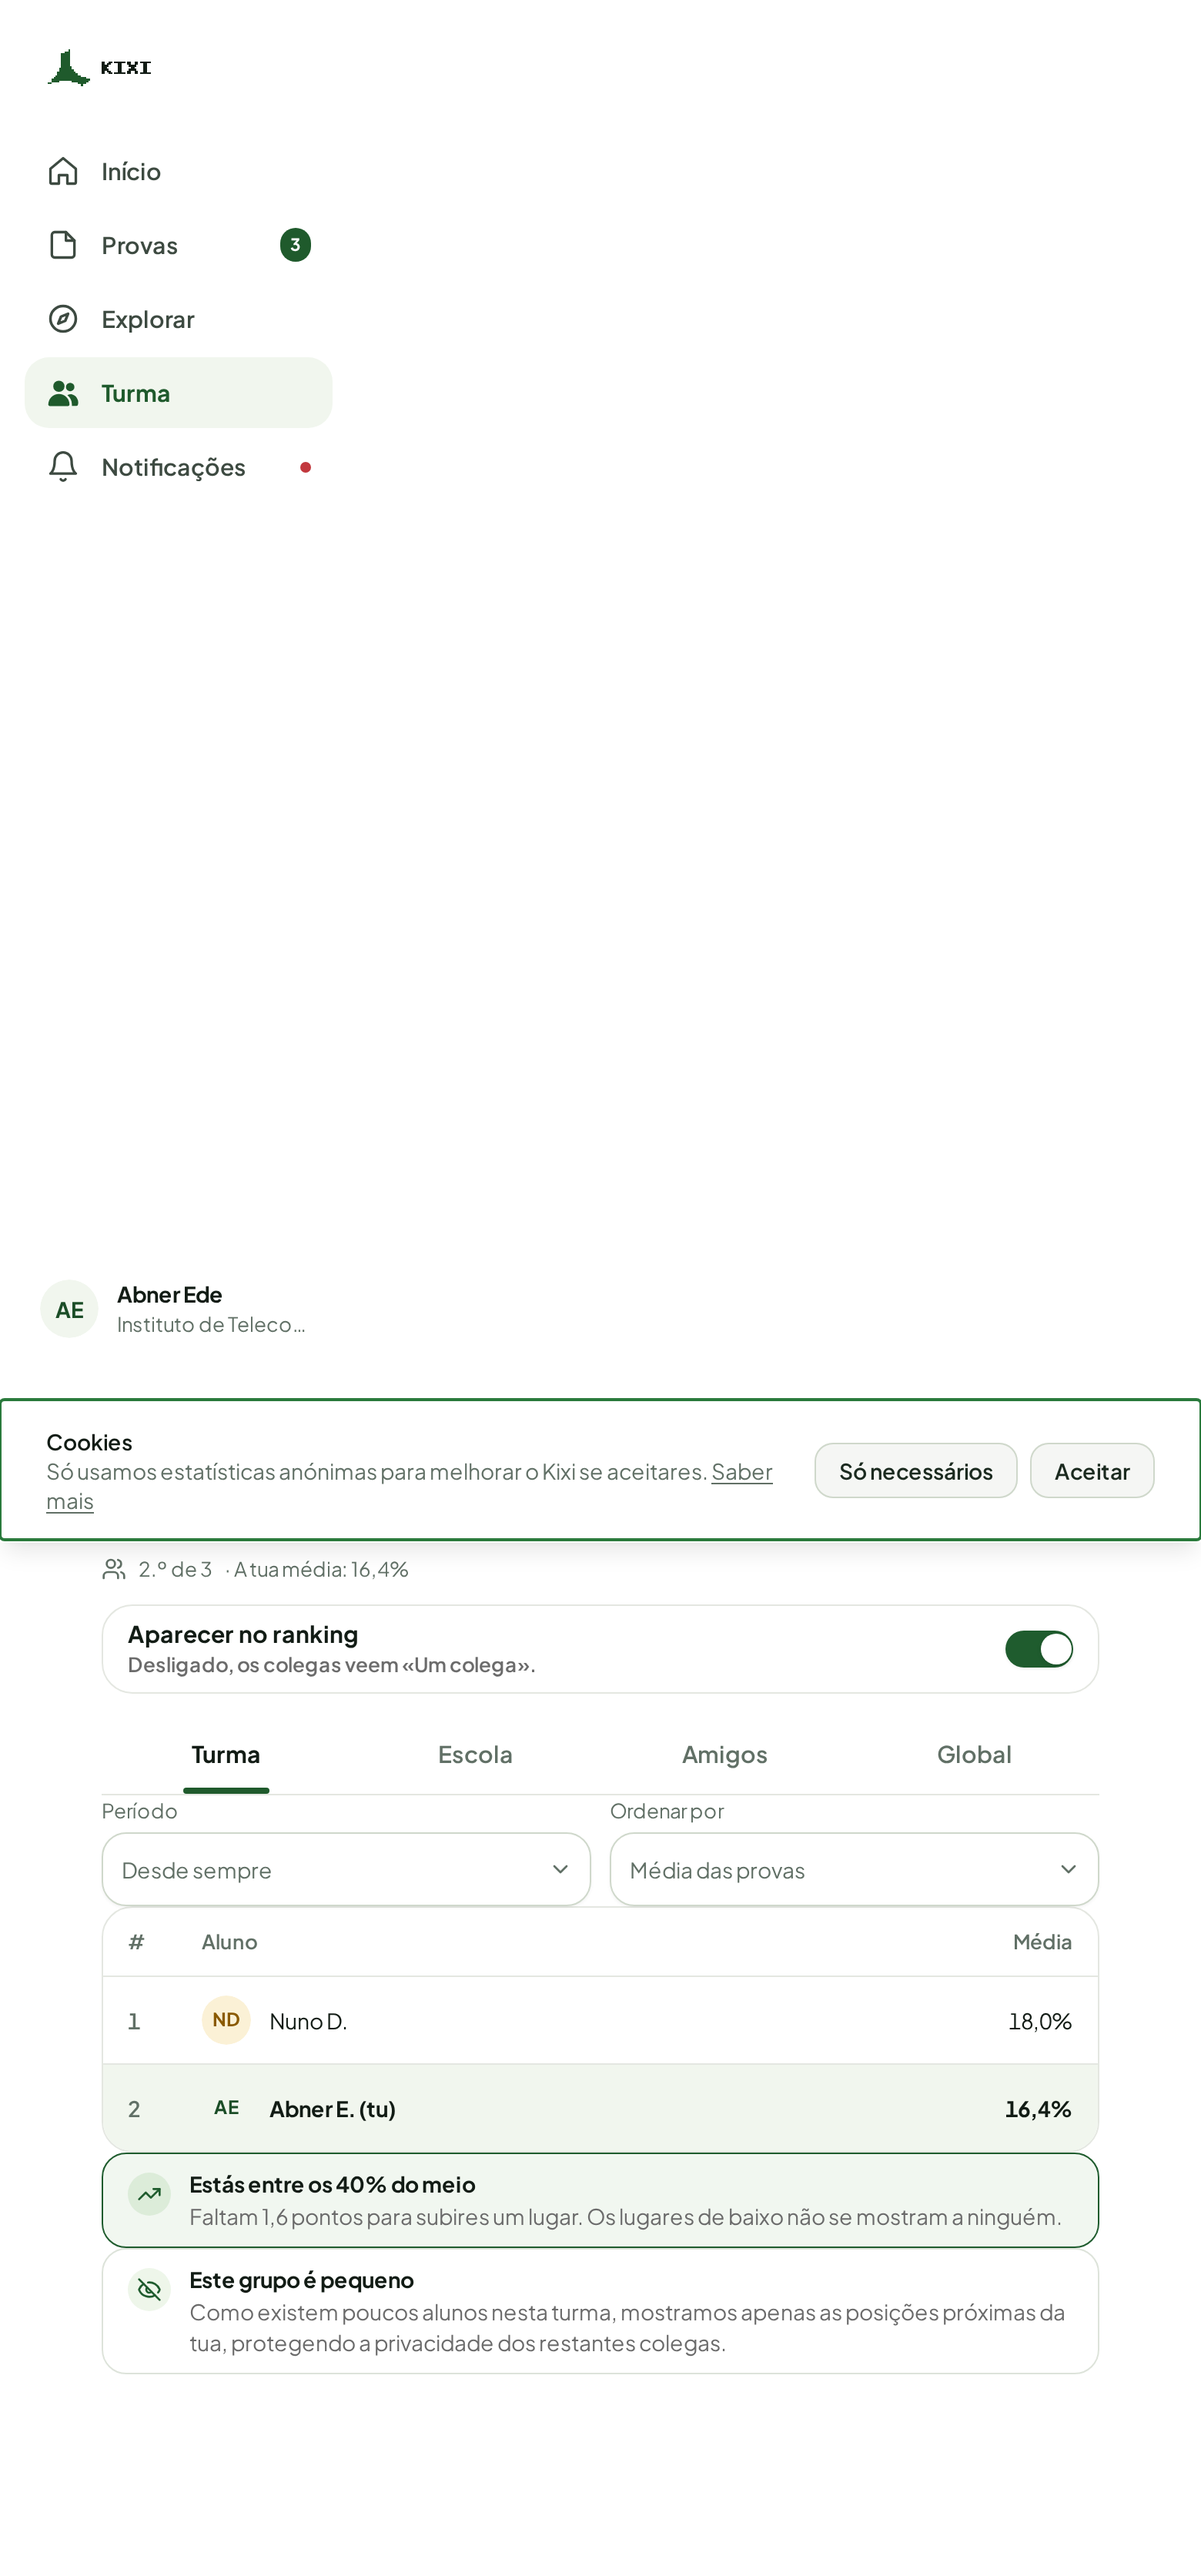
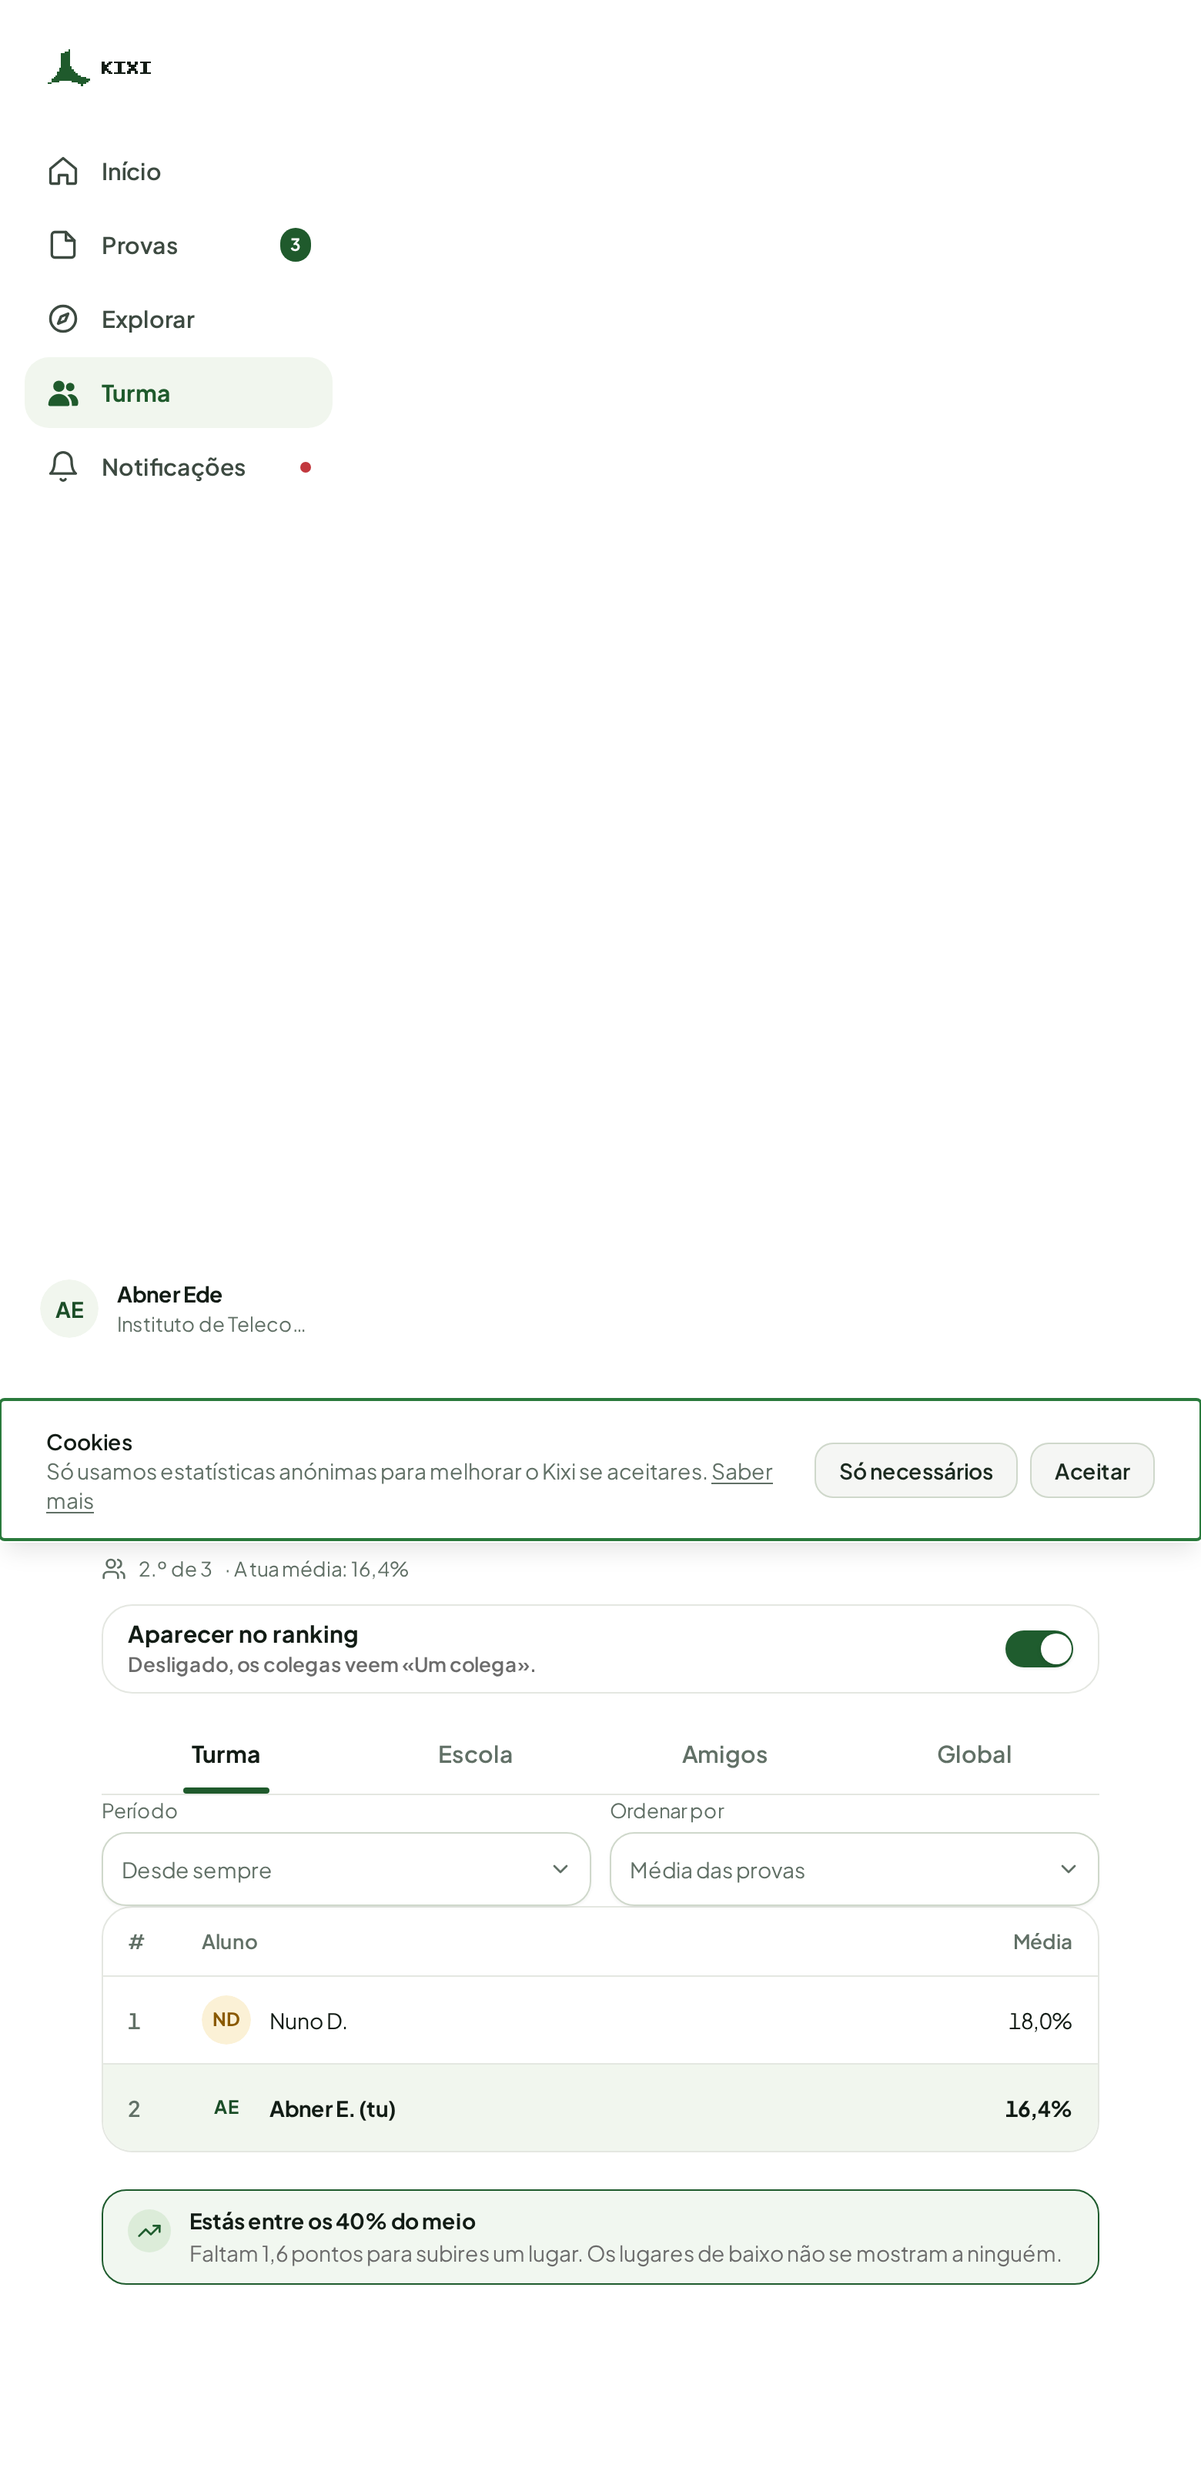
fix(aluno): remove aviso de grupo pequeno e afasta o destaque da tabela (#800)

diff --git a/student/components/ranking-view.tsx b/student/components/ranking-view.tsx
@@ -1,7 +1,7 @@
 'use client';
 
 import { useState, useTransition } from 'react';
-import { EyeOff, TrendingUp, Users } from 'lucide-react';
+import { TrendingUp, Users } from 'lucide-react';
 import { Column, Page, PageHeader } from '@/components/page';
 import { Card } from '@/components/ui/card';
 import { Table, TableBody, TableCell, TableHead, TableHeader, TableRow } from '@/components/ui/table';
@@ -14,7 +14,7 @@ import { FriendsPanel } from '@/components/friends-panel';
 import { RankingVisibility } from '@/components/ranking-visibility';
 import { Button } from '@/components/ui/button';
 import { NativeSelect } from '@/components/ui/native-select';
-import { formatAverage, globalNote, myPositionLabel, nextPlaceGap, podiumGap, relativeBandLabel, smallGroupNote, GLOBAL_EMPTY_HINT, METRIC_LABEL, PERIOD_LABEL, SCOPE_LABEL } from '@/lib/ranking-rules';
+import { formatAverage, globalNote, myPositionLabel, nextPlaceGap, podiumGap, relativeBandLabel, GLOBAL_EMPTY_HINT, METRIC_LABEL, PERIOD_LABEL, SCOPE_LABEL } from '@/lib/ranking-rules';
 import type { VisibilityPreferences } from '@/lib/ranking-rules';
 import { useMe } from '@/lib/me-context';
 import { photoUrl } from '@/lib/profile';
@@ -90,7 +90,6 @@ export function RankingView({
   const band = board ? relativeBandLabel(board.myPosition, board.totalStudents) : null;
   const gap = board ? nextPlaceGap(board, metric) : null;
   const posicao = myPositionLabel(board?.myPosition ?? null, board?.totalStudents ?? 0);
-  const privacidade = board ? smallGroupNote(board.smallGroup) : null;
 
   return (
     <Page variant="wide">
@@ -207,10 +206,10 @@ export function RankingView({
                     </TableBody>
                   </Table>
                 </Card>
-                {/* Depois da tabela: o aluno lê primeiro os resultados e só depois
-                    o contexto. Mesmas cores da maquete, com padding mais curto. */}
+                {/* Depois da tabela, com espaço acima para o cartão respirar. Só a
+                    faixa e a distância ao lugar de cima, sem texto explicativo extra. */}
                 {band && (
-                  <div data-testid="ranking-destaque" className="flex items-start gap-3 rounded-2xl border-[1.5px] border-[#1F5C2E] bg-[#F1F7F0] px-4 py-2.5">
+                  <div data-testid="ranking-destaque" className="mt-6 flex items-start gap-3 rounded-2xl border-[1.5px] border-[#1F5C2E] bg-[#F1F7F0] px-4 py-2.5">
                     <span className="mt-0.5 grid size-7 shrink-0 place-items-center rounded-full bg-[#dcecd9] text-[#1F5C2E]" aria-hidden="true">
                       <TrendingUp className="size-4" />
                     </span>
@@ -219,17 +218,6 @@ export function RankingView({
                       <span className="text-[#6B6B6B]">
                         {gap ? `${gap} ` : ''}Os lugares de baixo não se mostram a ninguém.
                       </span>
-                    </div>
-                  </div>
-                )}
-                {privacidade && (
-                  <div data-testid="ranking-privacidade" className="flex items-start gap-3 rounded-2xl border border-[#dde3da] bg-white px-4 py-2.5">
-                    <span className="mt-0.5 grid size-7 shrink-0 place-items-center rounded-full bg-[#eef6ea] text-[#1F5C2E]" aria-hidden="true">
-                      <EyeOff className="size-4" />
-                    </span>
-                    <div className="grid min-w-0 gap-0.5 text-sm leading-snug">
-                      <strong className="font-bold text-[#121c15]">{privacidade.title}</strong>
-                      <span className="text-[#6B6B6B]">{privacidade.text}</span>
                     </div>
                   </div>
                 )}

diff --git a/e2e/qualidade.spec.ts b/e2e/qualidade.spec.ts
@@ -240,25 +240,21 @@ test.describe('aparecer no ranking (#800)', () => {
       await naLiga.click();
       await expect(naLiga).toBeChecked();
     }
-    // Hierarquia revista: posição antes dos separadores, tabela primeiro e
-    // explicação de privacidade depois, colada ao destaque verde.
+    // Hierarquia final: posição antes dos separadores; cartão verde depois da
+    // tabela, com espaço acima e sem bloco explicativo por baixo.
     const posicao = page.getByTestId('ranking-posicao');
     const tabela = page.getByRole('table');
     const destaque = page.getByTestId('ranking-destaque');
-    const privacidade = page.getByTestId('ranking-privacidade');
     await expect(posicao).toContainText('A tua média: 16,4%');
-    await expect(privacidade).toContainText('Este grupo é pequeno');
-    await expect(privacidade).toContainText(/protegendo a privacidade dos restantes colegas/);
-    const [posicaoBox, abasBox, tabelaBox, destaqueBox, privacidadeBox] = await Promise.all([
+    const [posicaoBox, abasBox, tabelaBox, destaqueBox] = await Promise.all([
       posicao.boundingBox(),
       page.getByRole('tablist').boundingBox(),
       tabela.boundingBox(),
       destaque.boundingBox(),
-      privacidade.boundingBox(),
     ]);
     expect(posicaoBox!.y).toBeLessThan(abasBox!.y);
-    expect(tabelaBox!.y).toBeLessThan(destaqueBox!.y);
-    expect(destaqueBox!.y).toBeLessThan(privacidadeBox!.y);
+    expect(destaqueBox!.y - (tabelaBox!.y + tabelaBox!.height)).toBeGreaterThanOrEqual(16);
+    await expect(page.getByText('Este grupo é pequeno')).toHaveCount(0);
     // O destaque não nomeia o fundo da tabela.
     await expect(destaque.getByText('Estás entre os 40% do meio', { exact: true })).toBeVisible();
     await expect(destaque.getByText(/Faltam .* para subires um lugar/)).toBeVisible();

diff --git a/student/lib/ranking-rules.test.ts b/student/lib/ranking-rules.test.ts
@@ -1,6 +1,6 @@
 import { test } from 'node:test';
 import assert from 'node:assert/strict';
-import { formatAverage, globalNote, myPositionLabel, nextPlaceGap, podiumGap, smallGroupNote, METRIC_LABEL, PERIOD_LABEL, SCOPE_LABEL, showsNameInRanking, relativeBandLabel, visibilityNote, type VisibilityPreferences } from './ranking-rules.ts';
+import { formatAverage, globalNote, myPositionLabel, nextPlaceGap, podiumGap, METRIC_LABEL, PERIOD_LABEL, SCOPE_LABEL, showsNameInRanking, relativeBandLabel, visibilityNote, type VisibilityPreferences } from './ranking-rules.ts';
 
 test('os rótulos das abas são os scopes do backend', () => {
   assert.equal(SCOPE_LABEL.class, 'Turma');
@@ -33,13 +33,6 @@ test('o progresso até ao pódio respeita a métrica e não inventa dados ausent
   assert.equal(podiumGap(board, 'xp'), 'A 240 XP do 3.º lugar');
   assert.equal(podiumGap({ ...board, myPosition: 3 }, 'average'), null);
   assert.equal(podiumGap({ ...board, entries: [] }, 'average'), null);
-});
-
-test('o aviso de grupo pequeno só aparece quando o backend o assinala', () => {
-  const nota = smallGroupNote(true);
-  assert.equal(nota?.title, 'Este grupo é pequeno');
-  assert.match(nota?.text ?? '', /protegendo a privacidade dos restantes colegas/);
-  assert.equal(smallGroupNote(false), null);
 });
 
 test('as opções de período e de métrica têm rótulo em português', () => {

diff --git a/student/lib/ranking-rules.ts b/student/lib/ranking-rules.ts
@@ -106,19 +106,6 @@ export function podiumGap(board: Leaderboard, metric: RankingMetric): string | n
   return `A ${formatAverage(third.average - board.myAverage)} pontos do 3.º lugar`;
 }
 
-/** A regra de grupo pequeno (#117) esconde o pódio e corta as últimas posições:
- *  quando isso acontece, a lista de `entries` é só os vizinhos do aluno, nunca
- *  a turma toda - este texto explica o porquê em vez de deixar parecer incompleta.
- *  Fica depois da tabela, para o aluno ver primeiro os resultados (#800). */
-export function smallGroupNote(smallGroup: boolean): { title: string; text: string } | null {
-  return smallGroup
-    ? {
-        title: 'Este grupo é pequeno',
-        text: 'Como existem poucos alunos nesta turma, mostramos apenas as posições próximas da tua, protegendo a privacidade dos restantes colegas.',
-      }
-    : null;
-}
-
 export const PERIOD_LABEL: Record<RankingPeriod, string> = { all: 'Desde sempre', month: 'Últimos 30 dias' };
 export const METRIC_LABEL: Record<RankingMetric, string> = { average: 'Média das provas', xp: 'XP acumulado' };
 
